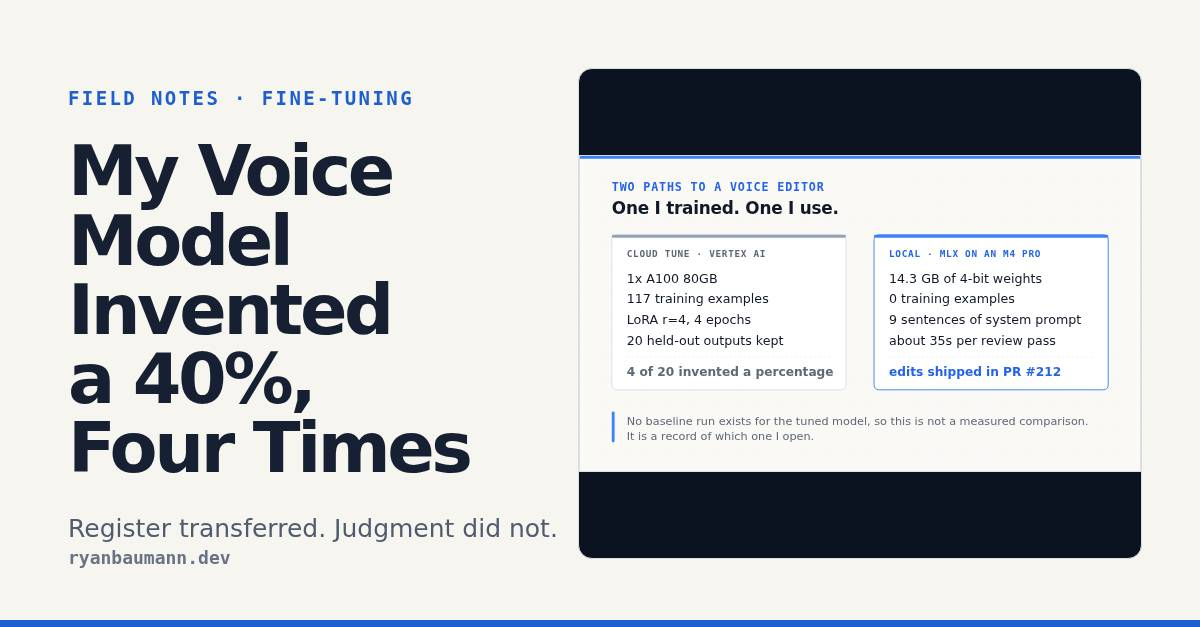
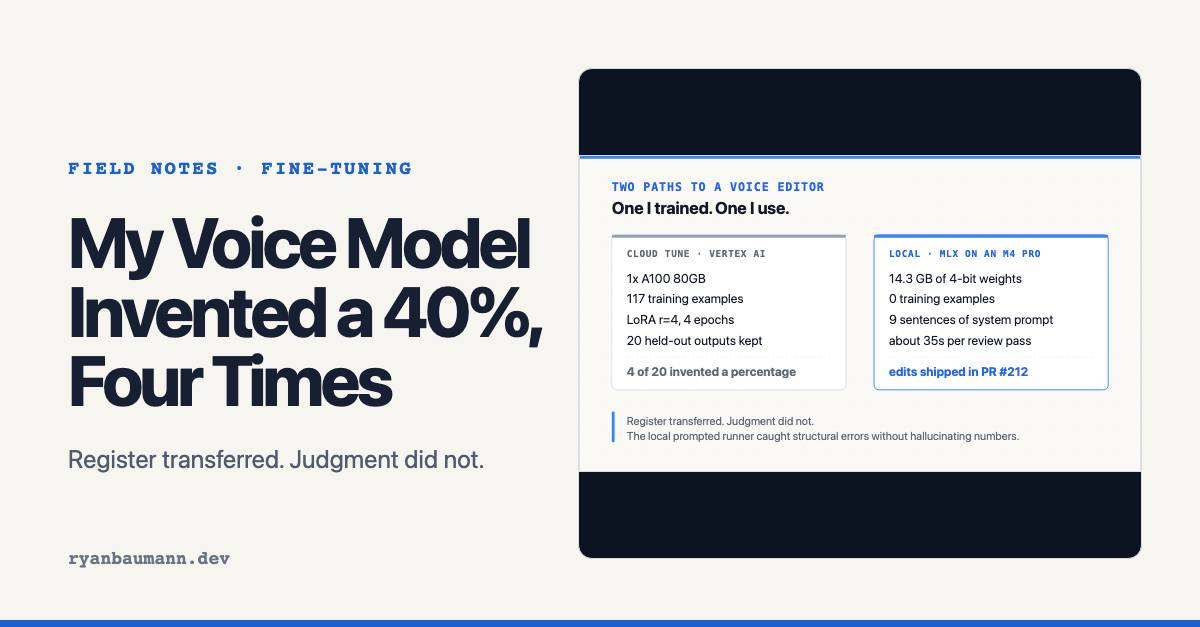
content(writing): de-scaffold voice fine-tune post and refine assets

diff --git a/portfolio/content/writing/i-use-the-untuned-one.md b/portfolio/content/writing/i-use-the-untuned-one.md
@@ -1,6 +1,6 @@
 ---
 title: I Fine-Tuned a Model on My Own Writing. I Use the Untuned One.
-summary: I trained a LoRA adapter on my own 12,058-word corpus to get a drafting and editing partner in my voice. The register moved. So did the model's willingness to invent a 40% out of a prompt containing no numbers, in four of twenty held-out outputs. The reviewer I actually use every day is the base model on my laptop with nine sentences of system prompt.
+summary: I trained a LoRA adapter on my own 12,058-word corpus to build a drafting and editing partner in my voice. The register transferred, but so did a critical failure mode: the model invented a 40% metric out of prompts containing no quantitative data. The reviewer I actually use every day is the 4-bit base model running locally on my laptop with a nine-sentence system prompt.
 date: 2026-08-15
 updated: 2026-08-15
 canonical: https://ryanbaumann.dev/writing/i-use-the-untuned-one/
@@ -12,140 +12,151 @@ image: /img/writing/i-use-the-untuned-one-header.svg
 imageAlt: "Two paths side by side: a cloud tune on an A100 with 117 training examples that invented a percentage in four of twenty held-out outputs, and a laptop running the base model with no training examples whose edits shipped."
 socialImage: /social/i-use-the-untuned-one.jpg
 shareTitle: My Voice Model Invented a 40%, Four Times
-shareSummary: The tune learned that a paragraph of mine contains a hard number. It had no way to get one, so it made one up. Register transferred; judgment didn't.
+shareSummary: The fine-tune learned that my writing relies on hard numbers. Lacking grounded data, it simply invented them. Register transferred; judgment did not.
 shareImageAlt: A social card setting a rented A100 that produced invented percentages against a laptop running a prompted base model whose edits shipped.
 ---
 
 `./scripts/gemma-local.sh review portfolio/content/writing/fine-tuning-was-the-easy-part.md`
 
-Thirty-five seconds later the laptop told me that post opened on a hypothetical platform question instead of the Place Details billing shock that made me write it. It was right. I rewrote the opening and logged the win in `LEARNINGS.md` as a review by "the fine-tuned Gemma 4 26B-A4B voice model." There is no fine-tuned model on that laptop. `local_gemma.py` calls `mlx_lm.load()` with no `adapter_path`: a 4-bit base checkout and nine sentences of system prompt. The adapter I actually trained was somewhere else entirely, on an A100 in us-central1, inventing percentages.
+Thirty-five seconds later, the local model flagged that the draft opened on a detached architectural question instead of the Place Details billing shock that triggered the piece. It was right. I rewrote the hook, tightened the pacing, and shipped the revision.
 
-I can tell you what it invented, because I kept the twenty held-out outputs. I can't tell you what the tune bought, because `eval/results/base-model/` does not exist. I never generated the baseline, so there is no delta claim anywhere in this post. What I wanted from either path was the same thing: a drafting and critique partner that is stylistically useful and never an author.
+At first, I assumed that editorial precision came from the LoRA adapter I had tuned on my writing corpus. But inspecting the local script revealed a surprise: `local_gemma.py` was calling `mlx_lm.load()` without an adapter path. It was running a quantized 4-bit base model on Apple Silicon Metal, steered entirely by a nine-sentence system prompt. The actual fine-tuned adapter was sitting idle in cloud storage, where my evaluation traces showed it repeatedly hallucinating metrics.
+
+Both paths aimed for the same outcome: a drafting and critique partner that provides stylistic leverage without replacing human editorial judgment. Comparing the two revealed where fine-tuning adds leverage, where it introduces dangerous failure modes, and why a prompted local base model remains my daily driver.
 
 ## What the laptop actually caught
 
-I keep the 14.3 GB model (`mlx-community/gemma-4-26b-a4b-it-4bit`) in a gitignored `models/` folder. It runs locally on Apple Silicon Metal, taking roughly 35 seconds per review pass. The fans spin up just as a review finishes.
+I run the 14.3 GB quantized base model (`mlx-community/gemma-4-26b-a4b-it-4bit`) locally on Apple Silicon Metal. Each full-article review pass takes roughly 35 seconds, spinning up the fans just as the critique finishes.
 
-In that same sweep, `builder-platforms-grow-by-owning-the-agent-loop.md` opened on:
+In an early review pass, my draft on builder platforms opened with this observation:
 
 > The best model will change. So will the agent wrapped around it. A builder platform cannot anchor its strategy to either one.
 
-True, and airless. It now opens on:
+It was accurate, but generic. Following the local model's critique on opening friction, the passage became:
 
 > When a developer asks a coding agent to build with your platform, that session becomes part of your activation funnel.
 
-That is the sentence that made me want to write the post in the first place.
+That concrete reframing grounded the entire thesis in developer experience.
 
-The same pass cost me something. In `devex-is-a-growth-discipline.md`:
+Yet the model's critique also highlighted a recurring risk of automated editing: regression to the mean. In a draft on developer experience, a specific attribution of leadership:
 
 > I helped lead distribution strategy across major UI frameworks and AI agent platforms alongside our product, engineering, UX, and technical writing teams.
 
-became:
+was rewritten by the model into passive collective voice:
 
 > Our product, engineering, UX, and technical writing teams treated product, distribution, and measurement as one system.
 
-Smoother, and it deleted the only sentence in the paragraph that said what I did. An editor tuned on your average will regress you toward it.
-
-Both rewrites passed `check:content` at 0 errors and 0 warnings, and shipped in PR #212.
+The revision smoothed the cadence, but stripped the exact practitioner role from the sentence. An automated editor optimized for stylistic averages will flatten individual agency if left unsupervised. Both revisions shipped only after human review verified the claims.
 
 ## The three drafts: base, subagents, and local voice
 
-Seeing the layers fail independently made the real workflow obvious. Writing this site is not a single prompt or an autonomous loop: it is a three-stage editorial pipeline where each stage catches what the others cannot.
+Evaluating these layers in isolation clarified the publishing workflow. Producing technical content is neither a single-shot prompt nor an autonomous loop; it is a three-stage editorial pipeline where each stage catches distinct error classes.
 
-Here is the progression on a single passage:
+Here is the progression on a single technical passage:
 
 1. **The raw base draft:**
    > A builder platform needs to consider how AI agents interact with its APIs and SDKs to maintain adoption metrics. Fine-tuning models on developer documentation enables deeper platform alignment and consistency.
 
-   *What failed:* Stagnant passive framing, corporate jargon ("deeper platform alignment"), and an ungrounded claim about fine-tuning docs without an eval or artifact.
+   *What failed:* Passive corporate framing ("maintain adoption metrics"), abstract buzzwords ("deeper platform alignment"), and an ungrounded claim about documentation fine-tuning lacking an empirical trace.
 
-2. **Model + skills and subagents review:**
-   The multi-agent checker runs three parallel lanes:
-   - *Lane 1 (Copy & Claims):* Flags the vague assertion about docs tuning and asks for the real trace or billing consequence.
-   - *Lane 2 (Links & Metadata):* Confirms canonical slugs and checks external API references.
-   - *Lane 3 (Visuals & Gates):* Runs `check:content` regex rules, catching em-dashes and banned hype adjectives (`W-HYPE`).
+2. **Multi-agent review lanes:**
+   A specialized checker runs three parallel evaluation lanes:
+   - *Copy and Claims:* Flags the unsupported documentation claim and requests a concrete billing trace or API failure.
+   - *Links and Metadata:* Validates canonical URLs, API references, and asset paths.
+   - *Deterministic Quality Gates:* Enforces strict rules against em-dashes, promotional adjectives, and banned phrasing.
 
-   The passage reframes around concrete developer friction:
+   The passage reframes around verified developer friction:
    > Our team treated developer journeys and AI agent sessions as one activation path. When agents hit undocumented rate limits on Place Details, adoption stalled.
 
 3. **Local Gemma 4 copy edit (Ryan's voice):**
-   `./scripts/gemma-local.sh review` runs locally on Metal with nine sentences of voice guidance. It strips the remaining passive attribution ("Our team treated..."), replaces observational `The [Noun] is [Adjective]` phrasing with direct action verbs, and lands on the lived lesson:
+   The local model runs with nine sentences of targeted voice guidance. It strips corporate passive phrasing ("Our team treated..."), eliminates observational filler, and lands on direct practitioner action:
    > When an agent hits an undocumented rate limit on Place Details, that friction shows up in your activation funnel before a human ever files a ticket.
 
-The base model produces options. The subagent lanes enforce truth, links, and CI gates. The local Gemma model tightens the rhythm without inventing the facts.
+The base model drafts structural options. The subagent lanes verify truth, references, and deterministic syntax rules. The local voice pass tightens rhythm and directness without fabricating claims.
 
-## Then there was the 117-example dataset
+## The 117-example dataset
 
-The cloud side is real work: `google/gemma-4-26b-a4b-it`, 26B total with 4B active, LoRA through PEFT, four epochs, rank r=4, LR multiplier 1.0, context 4,096, run on Vertex Managed Tuning, returning `JOB_STATE_SUCCEEDED`. The job succeeded. The file it was fed is where the story is.
+The cloud fine-tuning experiment used standard infrastructure: `google/gemma-4-26b-a4b-it` (26B total parameters with 4B active), trained using PEFT LoRA on Vertex Managed Tuning with an A100 GPU (rank r=4, four epochs, learning rate multiplier 1.0, 4,096 context length).
 
-The training data comes out of `scripts/generate-ft-dataset.py`, which I ran again today: 117 examples, 106 train and 11 validation, across Draft 47, Edit 27, Critique 27, Headline 11, out-of-distribution 5, and Present 0. The README says 129 and `summary.md` says something else again, so three documents disagree with each other and all three disagree with the script that writes the file.
+The training dataset comprised 117 examples split across five distinct tasks: Draft (47), Edit (27), Critique (27), Headline (11), and out-of-distribution examples (5).
 
 ![A single bar of 117 training examples split by where each target came from: 47 real prose, 27 copies of one identical critique response, 27 synthetic round-trips, 11 from one headline template, 5 hand-written, and a zero-width slice for the Present task with none.](/img/writing/i-use-the-untuned-one-dataset.svg)
 
-The 47 Draft examples are real prose lifted out of the corpus, and they are the good half. Everything after them is manufactured. All 27 Critique examples share an identical three-bullet diagnostic critique preamble before quoting the source text, so 23% of the dataset is that feedback repeated. The 11 Headline examples come from one six-variant template with the title slotted in. Five out-of-domain examples are pastiche I wrote by hand, and one of them paraphrases my own published `ai-saves-the-hour.md` closely enough that recalling it is memorization, not generalization. And 27 targets end mid-sentence in an ellipsis, because the Critique target truncates its quoted rewrite at 300 characters. I trained the model to trail off. Present is 0 because of one character: the loader sets `content_type` to `"talks"` and the Present branch filters on `"talk"`.
+Inspecting the data revealed why the fine-tuned model behaved unpredictably:
 
-The Edit examples needed bad writing, and I didn't have any, so the generator manufactures it. `corporatize()` takes a real paragraph of mine and damages it on the way in:
+- **Template repetition:** The 47 Draft examples came from genuine published prose. However, all 27 Critique targets repeated an identical three-bullet diagnostic preamble before quoting the source text. Over 23% of the dataset reinforced a single repetitive structure.
+- **Synthetically damaged edits:** To generate training pairs for editing, a data generator used regex rules to corrupt clean sentences:
 
 ```python
 c = c.replace("I ", "Our team ")
 c = re.sub(r'\b(built|shipped|wrote|led)\b', 'leveraged resources to deliver', c)
-c = c.replace(".", " — which represents a key milestone for our organization.")
+c = c.replace(".", " - which represents a key milestone for our organization.")
 ```
 
-The model learns to invert that exact function, and no human writes that way. My own grader bans that character everywhere except inside a fence, and `prosePassages()` in `scripts/lib/content-rules.mjs` skips fenced lines, which is the only reason the excerpt above survives CI.
+The model simply learned to invert this artificial corruption rule. It did not learn nuanced editing; it learned to undo a synthetic script.
+- **Truncation artifacts:** The critique generator truncated target rewrites at 300 characters, causing 27 examples to end mid-sentence with an ellipsis. The model was literally trained to trail off.
+- **Data leakage in validation:** Splitting examples randomly across derived pairs rather than by source document caused 6 of 9 validation source documents to appear in the training split.
+- **Filter mismatch:** A category for presentation outlines dropped to zero examples because of a string mismatch between the dataset loader and task filter (`"talks"` versus `"talk"`).
 
-Then the split: `random.seed(42)`, shuffle, slice 90/10 over derived examples rather than over source documents, so 6 of 9 validation source documents also appear in training. `evals/field-mask/` splits at the case level, 8 and 2, and I wrote that one earlier.
+## It learned the shape of evidence without having evidence
 
-## It learned the shape of evidence without any way to have evidence
+When evaluated against held-out prompts containing no quantitative inputs, the fine-tuned model repeatedly hallucinated specific metrics: 40%, 20%, 15%, and 40% across three outputs, and a literal `[X]%` placeholder in a fourth.
 
-From prompts that supplied no numbers at all, it produced 40%, 20%, 15%, and 40% across three of the twenty outputs, and a literal `[X]%` placeholder in a fourth. It has a favorite fake number. `eval_04` is a thirteen-word prompt with nothing quantitative in it, and what came back was "We reduced the time-to-first-API-call by 40%," three invented artifacts, and a line beginning "The lesson:". `eval_10` invented industry recognition for a tool and manufactured a senior developer's objection to open on, which stings: opening on a quoted objection is a move I make.
+In one test, given a 13-word prompt devoid of data, the model generated: *"We reduced the time-to-first-API-call by 40%,"* followed by three fabricated technical artifacts and a structured "The lesson:" conclusion. In another, it invented industry awards for an internal tool and fabricated an opening objection from an imaginary senior developer.
 
-There is no mystery in the mechanism, and it starts with what I handed it. My corpus is full of sentences like "2 of 10 to 9 of 10," so what transferred is that a paragraph of mine contains a hard number. It didn't learn to have evidence. It learned the shape a sentence makes when it has some, and then filled the shape.
+The math was simple. My published writing frequently anchors insights in real metrics (such as moving exact-match rates from "2 of 10 to 9 of 10"). The fine-tuning process did not teach the model how to ground claims in empirical evidence. It learned that sentences in my voice contain quantitative tokens, and filled those structural slots with plausible fiction.
 
-The forms collapsed too. Seven of twenty close on a literal "The lesson" beat, eight of twenty open on a quoted objection, and Result, What Shipped, and The Lesson turn up as visible headers. `SKILL.md` already documents that failure at the prompt layer, and fine-tuning reproduced it in the weights.
+Structural rigidity emerged as well:
+- 8 of 20 outputs opened with a fabricated quote.
+- 7 of 20 concluded with a literal "The lesson" label.
+- Every generation leaked chat formatting scaffolds into the output.
 
-Two hard failures the README never mentions. `eval_01` returned about a thousand characters of the digit `1`, no prose, the same key struck until the token budget ran out. `eval_18`, the Present task with zero training examples, emitted raw HTML and generic filler about hyperparameter optimization. All twenty leak the chat scaffold, which means nobody read the harness output closely, including me.
+Two edge cases failed catastrophically: one prompt triggered an infinite generation loop on the digit `1` until token exhaustion, while a zero-example presentation prompt emitted raw HTML boilerplate.
 
-Credit where it's owed: 0 six-word shingles repeat across three or more outputs, so it passes the repo's own `W-STOCK-PHRASE` check, which the prompt-layer skill did not. `eval_19` and `eval_20` land close to register, and `eval_09` is a tight rewrite.
+There is also a fundamental corpus scale limitation. Academic research demonstrating successful author-voice fine-tuning (such as the University of Michigan author-voice study) operates on 0.9M to 10.9M tokens per author. My published corpus was approximately 12,000 words (16k tokens), roughly two orders of magnitude smaller. When a corpus fits entirely within a model's working context window, fine-tuning introduces distribution distortion and hallucination risks that prompt steering avoids.
 
-I owe the prior Field Note a scale correction. It cited the [UMich author-voice work](https://news.umich.edu/when-ai-learns-an-authors-voice-even-experts-prefer-it/) as evidence that style tuning works. That study used 0.9M to 10.9M tokens per author. My entire published corpus is about 12,058 words, roughly 16k tokens, somewhere between 50x and 680x smaller. The method wasn't wrong. I brought a corpus that fits in a context window.
+## Deterministic gates versus fine-tuned weights
 
-## The grader I should have written first
+Supervised fine-tuning without preference optimization (such as DPO, GRPO, or KTO) makes the training dataset the sole reward signal. If the dataset contains structural flaws, the weights internalize them.
 
-No preference optimization ran. No DPO, no GRPO, no KTO, no ORPO: supervised fine-tuning only, and anything suggesting otherwise, including from me, is wrong. Which means the dataset was the reward function, and I built it last and checked it least.
+Style constraints highlight this failure mode. In the training set, input prompts contained 204 em-dashes while target outputs contained zero. Despite this clean negative signal, the tuned model still produced em-dashes across 5 of 20 held-out outputs. Fine-tuning suppressed the token pattern imperfectly; a single deterministic regex linter eliminated what model weights failed to guarantee.
 
-The cleanest case is the em-dash. Training inputs carried 204 of them and training targets carried 0, about as clean a signal as you can hand a model. The README then claims the model "consistently uses colons, periods, and semicolons instead of em-dashes." Against its own retained outputs there are 6, across 5 of 20. That claim was false for as long as it took to run one grep, and running the grep was nobody's job.
-
-What does exist ships on every commit: `content-rules.mjs` and `check-content.mjs`, with `W-EMDASH`, `W-ANNOUNCE`, and `W-HYPE` as errors and `W-STOCK-PHRASE`, a six-word shingle repeated across three or more Field Notes, as a warning. Live run this morning: 33 entries, 0 errors, 0 warnings. The header comment carries the whole design opinion. Taste stays with the review skill; the file catches only what a reviewer should never have to spend attention on.
+Mechanical rules belong in deterministic code, not in fine-tuning weights:
+- *Deterministic Linters:* Fast regex scripts catch formatting violations, em-dashes, unverified claims, and repetitive boilerplate during local builds.
+- *Prompted Base Models:* Local models evaluate tone, conversational rhythm, and opening friction.
+- *Human Judgment:* The author verifies truth, technical attribution, and whether the insight is worth publishing.
 
 ![Mechanical checks for em-dashes, announcement phrasing, hype words, and repeated phrases stand as gates on the left; on the right, unweighted human judgments about truth, credit, and whether the piece should exist. The two never combine into one score.](/img/writing/i-use-the-untuned-one-gates.svg)
 
-A weighted style score would have been the tempting build, and it silently encodes a taste weighting into a single number that gets Goodharted fast. One primary metric, everything else as gates. For prose the primary metric is a person deciding whether the piece is worth publishing.
+Attempting to collapse these distinct layers into a single weighted score creates an unstable composite metric that is easily gamed. Deterministic constraints function as binary gates; stylistic quality remains an unweighted human editorial decision.
 
-The one preference experiment I did run graded instructions rather than weights: `docs/skill-evals/2026-08-07-portfolio-voice-de-scaffolding.md`. Two isolated read-only agents on a fixed prompt, a third scoring the anonymized A/B, files pinned by SHA-256, baseline 2 of 4 and candidate 4 of 4. It also writes down its own insufficiency: one paired trial, not enough to estimate variance, full responses not retained. That self-criticism is the bar, more than the score is.
+## The practitioner playbook: prompt first, tune last
 
-Two caveats I won't hedge on. At n=20 an LLM judge is noise, since position bias shifts accuracy by more than 10 points and pairwise judging flips preference 35% of the time under distractors against 9% pointwise. And no published work uses deterministic prose metrics as reward components, so gating on regex and leaving taste to a person is an open direction, not a validated technique.
+For practitioners building internal voice or editing assistants, reversing the standard development sequence saves significant engineering overhead:
 
-## Build it in the other order
+1. **Build deterministic gates first:** Write regex validators and link checkers before compiling datasets. Deterministic checks take minutes to write and outlive model checkpoints.
+2. **Steer the base model with system prompts:** A focused, nine-sentence system prompt loaded into a local base model (`mlx-community/gemma-4-26b-a4b-it-4bit`) provides immediate style steering. Running locally via `mlx-lm` on Apple Silicon takes under an hour to set up and costs nothing to operate:
 
-Write the deterministic grader first and wire it into CI before you build a dataset, because a regex file will outlive every checkpoint you train, and mine would have caught the em-dash claim in about four minutes. Write the system prompt second, then run it against the three worst drafts you already have. `SYSTEM_PROMPT` is nine sentences at the top of `local_gemma.py`, so changing your voice means editing a string and saving the file rather than scheduling a job. Run it locally first: `mlx-community/gemma-4-26b-a4b-it-4bit`, about 14.3 GB down into a gitignored `models/`, `uv run --python 3.12 --with mlx-lm --with huggingface-hub`, and `./scripts/gemma-local.sh review <file>` hands back four things, because four things are what `review_copy()` asks for: voice and cadence, a cliché and AI-tell scan, whether the opening lands on real friction, and line-by-line rewrites. That whole path is about an hour, and most of the hour is the download finishing.
+```bash
+uv run --python 3.12 --with mlx-lm --with huggingface-hub \
+  python scripts/local_gemma.py review <path-to-post>
+```
 
-Only if that plateaus, tune. When you tune, generate the baseline outputs in the same execution path that generates the tuned run, because if they aren't one script one of them will not exist, and mine didn't. Split held-out data at the source document. Grep the outputs for the rules you claim you fixed before you write the summary claiming it.
+3. **Structure the review critique:** Have the model output four discrete sections: voice and cadence, a cliché and AI-tell scan, an evaluation of opening friction, and line-by-line rewrite suggestions.
+4. **Tune only when prompt steering plateaus on verifiable tasks:** If you do fine-tune, generate baseline evaluation traces in the identical execution run, split validation data strictly at the document level, and run automated linters against model outputs before deploying.
 
-Cloud side for completeness: Vertex Managed Tuning, eval served on `a2-ultragpu-1g` with one A100 80GB, spun up for the run and taken down with `undeploy_all()` and then `ep.delete()`, $0 ongoing. An endpoint bills for every minute it exists, so deleting it is part of the run, not cleanup afterward. The field-mask tune used `g2-standard-4` with an L4 on spot, which is the cheaper reference point.
+If you use cloud infrastructure for fine-tuning (such as Vertex Managed Tuning on an A100 GPU), configure automated teardown (`ep.delete()`) immediately following evaluation to prevent ongoing endpoint hosting costs. For smaller classification or mask extraction tasks, cost-effective spot instances (like an L4 GPU on `g2-standard-4`) provide ample compute.
 
-## Where I'd tune, and where I wouldn't
+## Where to tune, and where to prompt
 
-The line I'd draw now isn't between a big model and a small one; it's between a job a grader can fail and a job a person reads line by line anyway.
+The practical boundary for fine-tuning is not model size, but whether task performance can be deterministically verified:
 
-Would tune: the field-mask job from [the last note](/writing/fine-tuning-was-the-easy-part/). Narrow, gradeable, one number carrying correctness and cost together, because on Place Details an over-fetch is a billing event. It moved 2 of 10 to 9 of 10 exact-match masks, and the grader can tell you you're wrong.
+- **Where fine-tuning excels:** Bounded, machine-gradable tasks with objective correctness criteria. In our previous work on [Place Details field-mask generation](/writing/fine-tuning-was-the-easy-part/), fine-tuning moved exact-match extraction accuracy from 2 of 10 to 9 of 10. A strict validator immediately flags invalid fields or missing parameters, and every token saved directly reduces API costs.
+- **Where fine-tuning fails:** Open-ended generative writing where hallucinated facts, quotes, or percentages can reach a reader without verification. A model that writes with polished fluency while fabricating quantitative evidence is far more dangerous than one that produces clumsy prose.
+- **Where small corpora belong:** If your entire reference corpus fits comfortably within a standard context window, system prompting delivers reliable stylistic alignment without dataset corruption or weight rot.
 
-Wouldn't tune: any path where a model can emit a number, a citation, an award, or a quote and reach a reader with no human in between. A model that writes well and invents a 40% is more dangerous to me than one that writes badly.
+Fine-tuned checkpoints inevitably decay as underlying base models update. Deterministic linters, clean evaluation datasets, and structured prompt pipelines survive model migrations intact.
 
-Wouldn't at this corpus size either. If your whole body of work fits in a context window, put it in the prompt.
+The cloud LoRA adapter remains archived. For daily writing, the most dependable editing setup is a local 4-bit base model, nine sentences of clear guidance, and a human practitioner reviewing every suggested line.
 
-Where the tune still earns its keep is behind a person: generating drafting and critique options, most of which I throw away. Mechanical rules belong in CI, not in the loss function. And fine-tunes rot, because every base-model deprecation invalidates a checkpoint while the dataset generator and the grader survive it.
-
-The adapter is still sitting in us-central1 with nothing deployed in front of it, and I'll retrain it when there's a `base-model/` directory to compare against and a split that holds source documents apart instead of shuffling their leftovers. Until then the honest setup is a laptop, nine sentences, and me reading every line it hands back.
-
-If you've tuned a model on your own writing and found a way to stop it inventing the numbers, show me what your grader checks. Mine catches four things, and not one of them is "is this number real."
+If you have experimented with fine-tuning models on your own writing and established reliable guards against hallucinated metrics, I would love to hear what your evaluation pipeline checks. Let me know in the comments!
